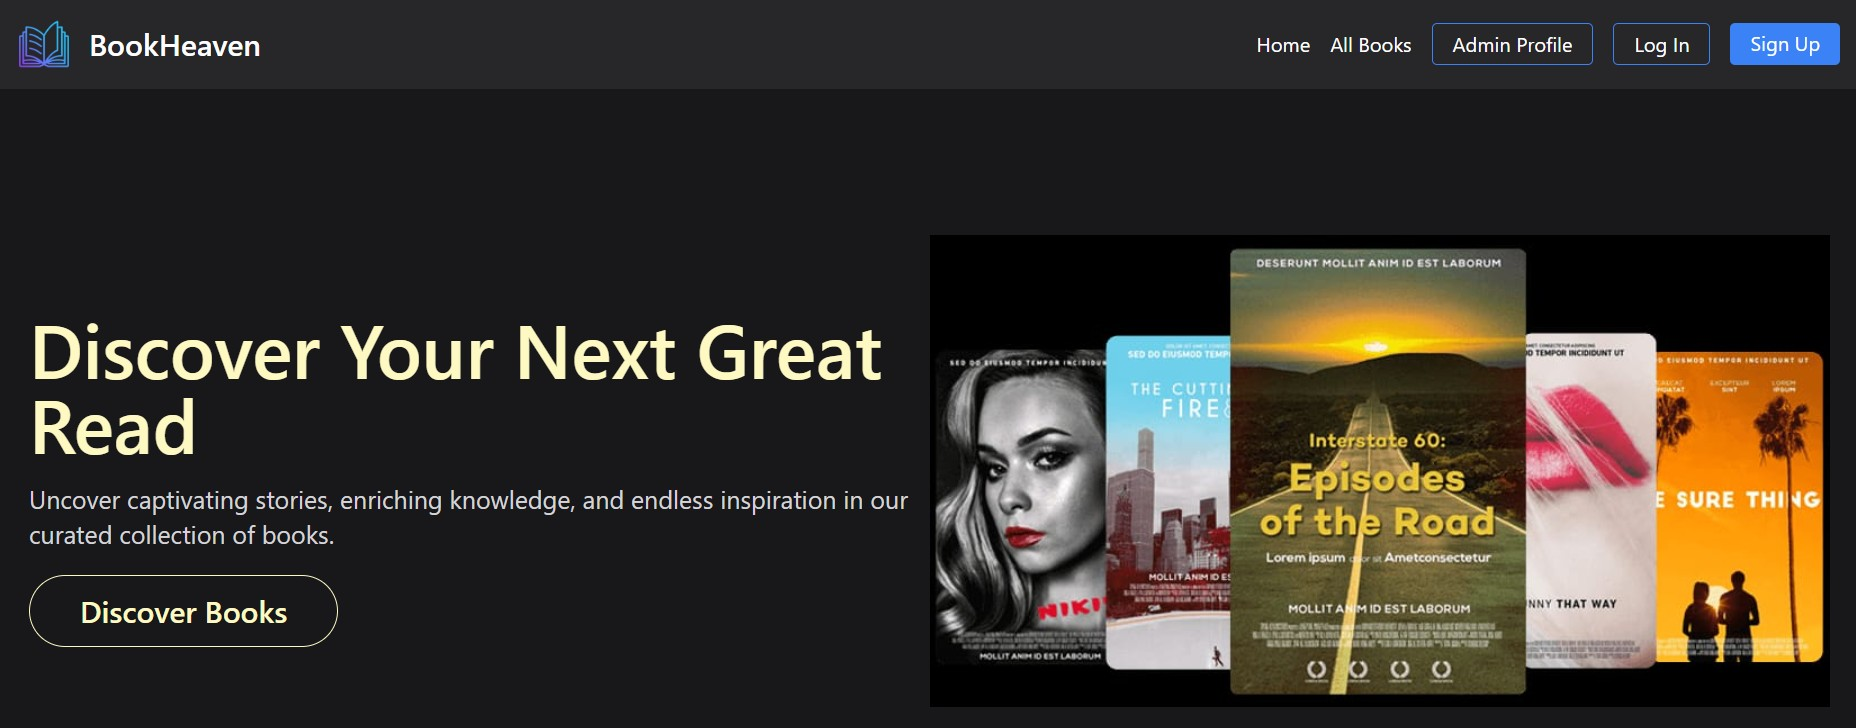
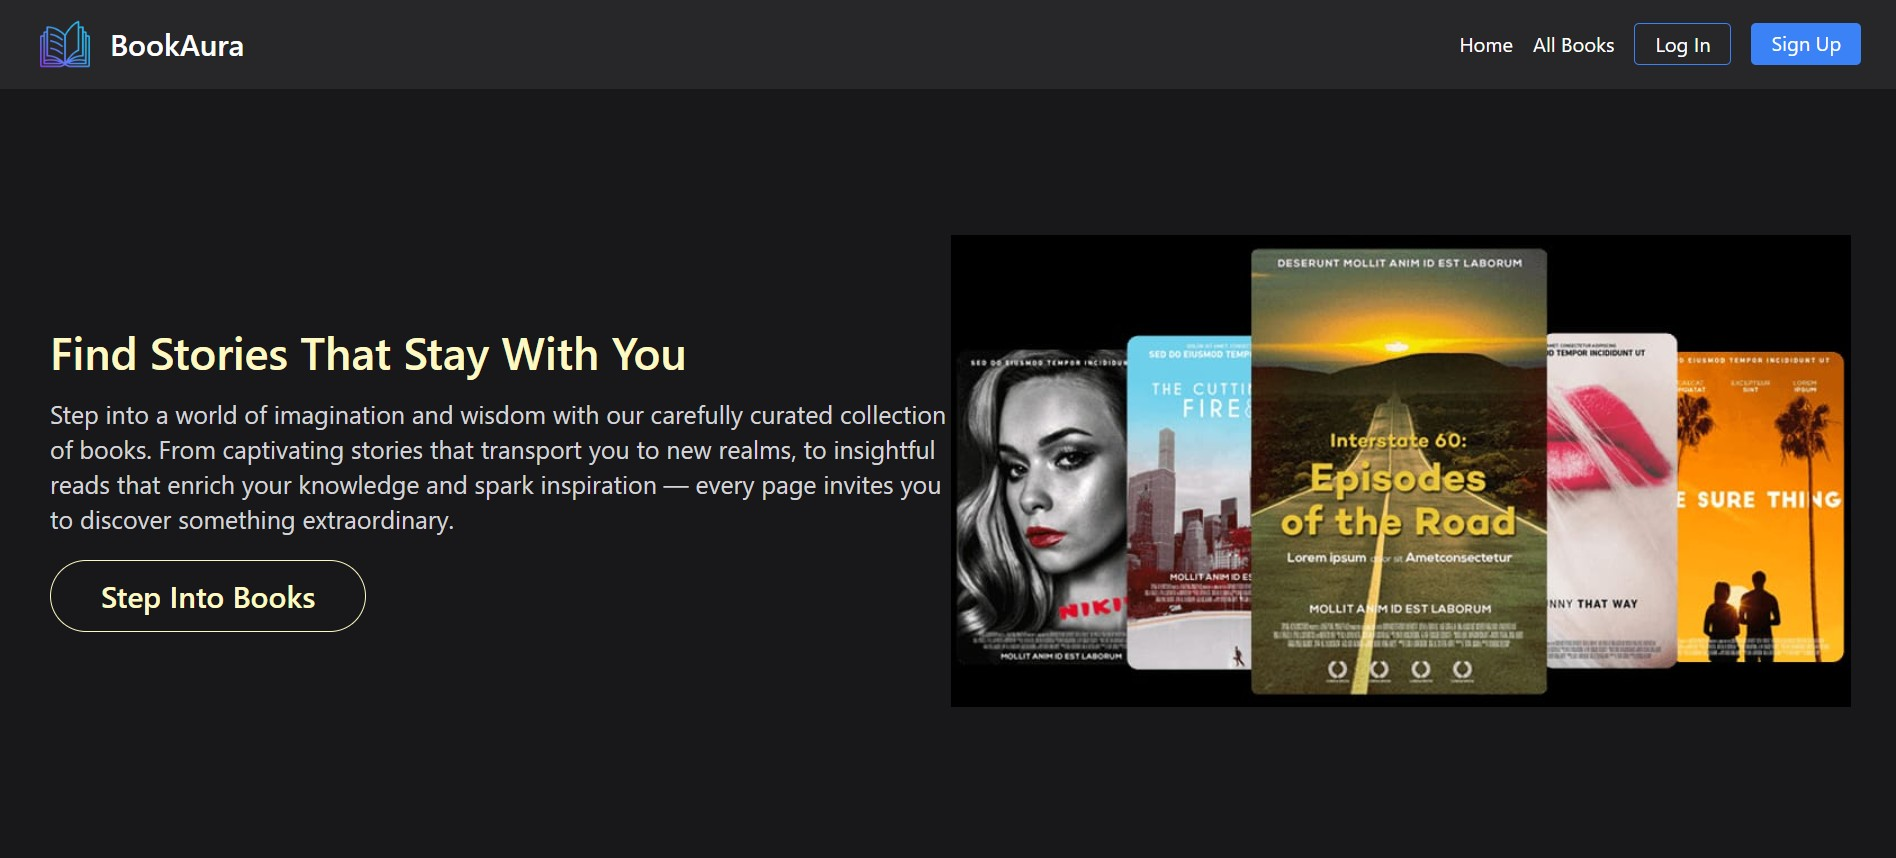
project demo added

diff --git a/index.html b/index.html
@@ -62,14 +62,14 @@
         </div>
 
         </div>
-        <img src="images/image1.jpg" alt="">
+        <img src="images/image3.jpg" alt="">
     </section>
 
     <!-- *************************About Section************************* -->
 
     <section class="about" id="about">
         <h2 class="title">About <span>Me</span></h2>
-        <img src="./images/image1.jpg" alt="" class="aboutImg">
+        <img src="./images/image3.jpg" alt="" class="aboutImg">
         <div class="text-content2">
             <h2>Frontend Developer</h2>
             <p>
@@ -224,13 +224,13 @@
                     <h2 class="experience-sub-title project-title">BookHeaven</h2>
                     <div class="btn-container">
                         <button class="btn btn-color-2 project-btn"
-                            onclick="location.href='https://github.com/Shailaja-2/BookHeaven-project.git'">
+                            onclick="location.href='https://github.com/Shailaja-2/BookAura.git'">
                             Github
                         </button>
-                        <!-- <button class="btn btn-color-2 project-btn"
-                            onclick="location.href='https://bookheaven.vercel.app/'">
+                        <button class="btn btn-color-2 project-btn"
+                            onclick="location.href='https://bookaura-frontend.onrender.com/'">
                             Live Demo
-                        </button> -->
+                        </button>
                     </div>
                 </div>
 
@@ -241,10 +241,10 @@
                     </div>
                     <h2 class="experience-sub-title project-title">Restaurant</h2>
                     <div class="btn-container">
-                        <!-- <button class="btn btn-color-2 project-btn"
+                        <button class="btn btn-color-2 project-btn"
                             onclick="location.href='https://github.com/Shailaja-2/Mern_Food.git'">
                             Github
-                        </button> -->
+                        </button>
                         <button class="btn btn-color-2 project-btn"
                             onclick="location.href='https://mern-food-frontend-iafe.onrender.com/'">
                             Live Demo
@@ -292,6 +292,10 @@
                     <h2 class="experience-sub-title project-title">Mental Wellness</h2>
                     <div class="btn-container">
                         <button class="btn btn-color-2 project-btn"
+                            onclick="location.href='https://github.com/Shailaja-2/gmt.git'">
+                            Github
+                        </button>
+                        <button class="btn btn-color-2 project-btn"
                             onclick="location.href='https://gmt-seven-nu.vercel.app/'">
                             Live Demo
                         </button>
@@ -305,6 +309,10 @@
                     </div>
                     <h2 class="experience-sub-title project-title">Recipe Card</h2>
                     <div class="btn-container">
+                        <button class="btn btn-color-2 project-btn"
+                            onclick="location.href='https://github.com/Shailaja-2/Recipe-card.git'">
+                            Github
+                        </button>
                         <button class="btn btn-color-2 project-btn"
                             onclick="location.href='https://recipe-card-livid.vercel.app/'">
                             Live Demo
